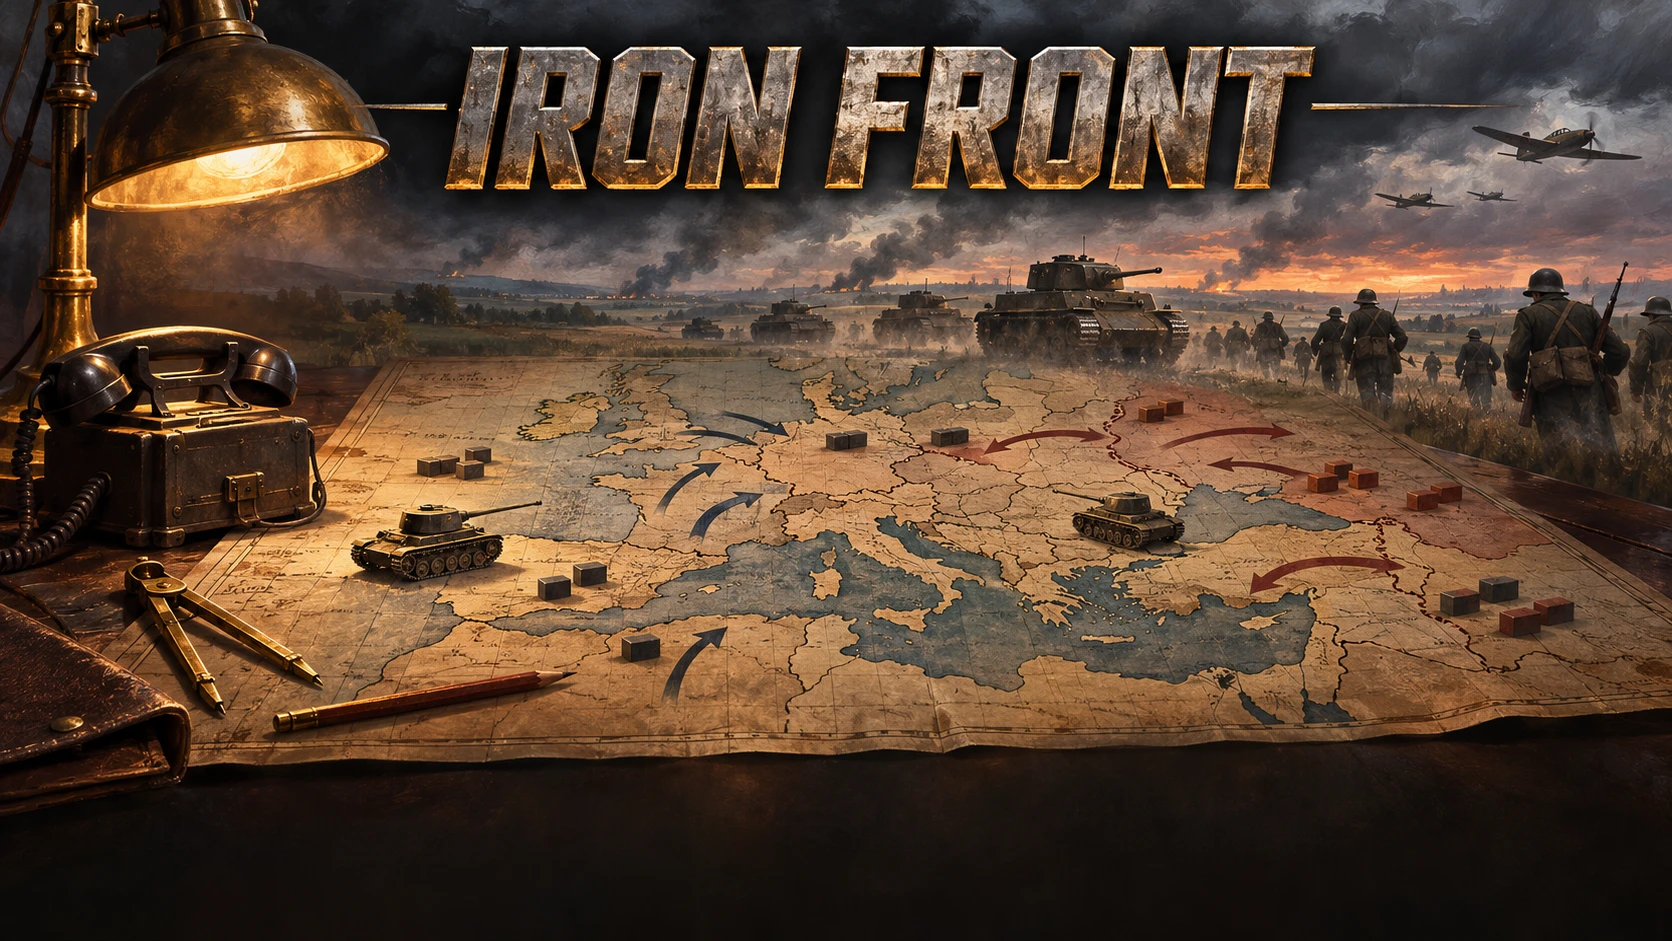
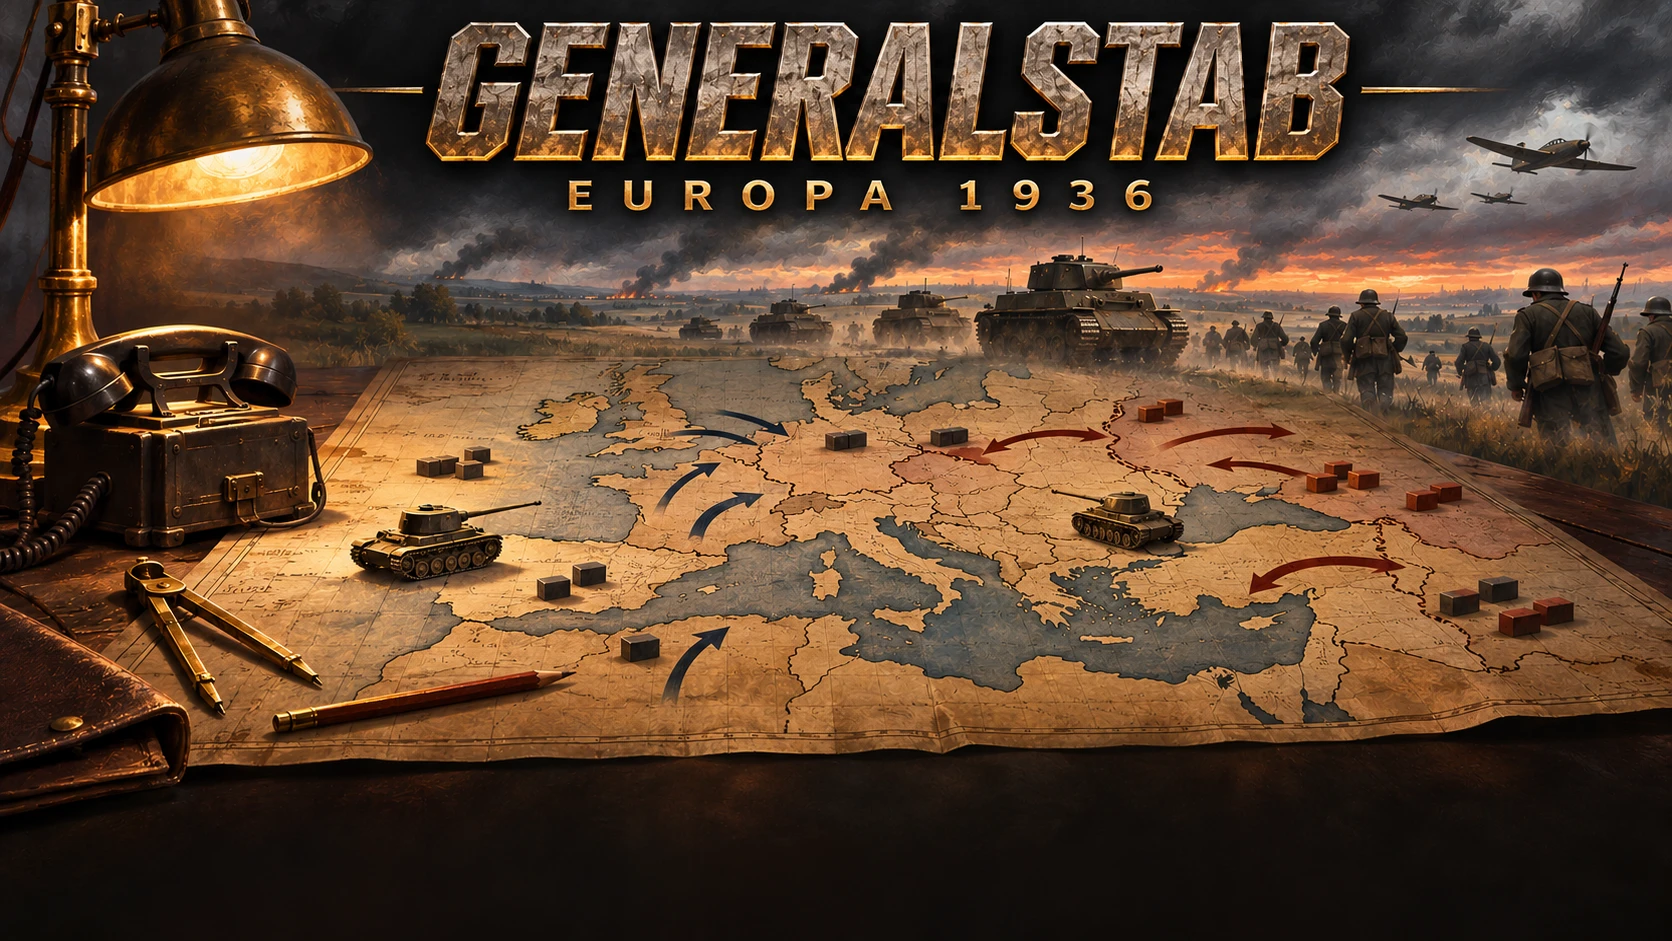
Umbenannt in „Generalstab – Europa 1936“, neues Titelbild

diff --git a/src/main.ts b/src/main.ts
@@ -91,7 +91,7 @@ function save() {
 
 function menu() {
   const hasPl = !!localStorage.getItem(SAVE_POLEN), hasEu = !!localStorage.getItem(SAVE_EU), hasW = !!localStorage.getItem(SAVE_WELT);
-  show(`<img class="cover" src="./title.webp" alt="Iron Front"><div class="dim" style="margin-top:12px">Rundenstrategie 1936–1945: Divisionen auf der Provinzkarte, Bataillone auf der Hex-Schlachtkarte.</div>
+  show(`<img class="cover" src="./title.webp" alt="Generalstab – Europa 1936"><div class="dim" style="margin-top:12px">Rundenstrategie 1936–1945: Divisionen auf der Provinzkarte, Bataillone auf der Hex-Schlachtkarte.</div>
     <div class="menu-card"><h3>Welt 1936</h3>
       <p class="dim">Wie Europa 1936, aber auf der ganzen Welt: Amerika, Afrika, Asien und der Pazifik mit Japan, China, den USA und dem britischen Empire. Japans Krieg in China und der Pazifikkrieg ab Dezember 1941 laufen nach historischem Fahrplan; alle Staaten außer dem Reich führt die KI.</p>
       <div class="row"><button class="primary" data-m="welt">Neues Spiel: Deutsches Reich</button>${hasW ? '<button data-m="loadWelt">Spielstand fortsetzen</button>' : ''}</div></div>
@@ -117,7 +117,14 @@ function menu() {
 
 // ---- eigene Spielstände ------------------------------------------------------
 
-const SLOTS = 5, slotKey = (i: number) => `ironfront_slot${i}`;
+const SLOTS = 5, slotKey = (i: number) => `generalstab_slot${i}`;
+// Spielstände aus der kurzen Zeit unter dem früheren Namen übernehmen
+for (let i = 0; i < SLOTS; i++)
+  for (const sfx of ['', '_info']) {
+    const old = localStorage.getItem(`ironfront_slot${i}${sfx}`);
+    if (old && !localStorage.getItem(slotKey(i) + sfx)) localStorage.setItem(slotKey(i) + sfx, old);
+    localStorage.removeItem(`ironfront_slot${i}${sfx}`);
+  }
 interface SlotInfo { scen: string; date: string; saved: number }
 function slotInfo(i: number): SlotInfo | null {
   try {

diff --git a/index.html b/index.html
@@ -3,7 +3,7 @@
 <head>
   <meta charset="utf-8">
   <meta name="viewport" content="width=device-width, initial-scale=1">
-  <title>Iron Front</title>
+  <title>Generalstab – Europa 1936</title>
   <style>
     :root {
       --bg: #1b1e22; --panel: #262a30; --raised: #30353c; --hover: #3a4049; --line: #3c424a; --soft: #32373e;
@@ -153,7 +153,7 @@
 <body>
   <div id="app">
     <header>
-      <h1>Iron Front</h1>
+      <h1>Generalstab</h1>
       <span id="title" class="scen"></span>
       <span id="date"></span>
       <span id="vp"></span>

diff --git a/README.md b/README.md
@@ -1,4 +1,4 @@
-# Iron Front
+# Generalstab – Europa 1936
 
 Rundenbasierte Strategie im Browser: Divisionen auf einer Provinzkarte, Regimenter und
 Abteilungen auf einer Hex-Schlachtkarte. Drei Szenarien:
